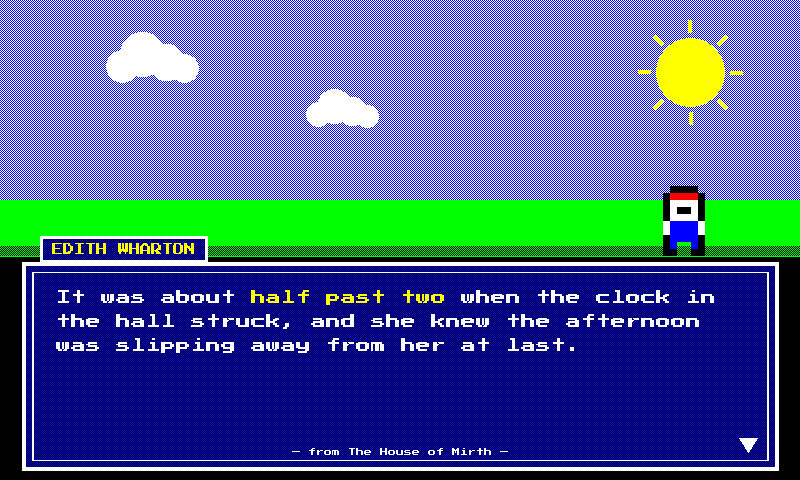
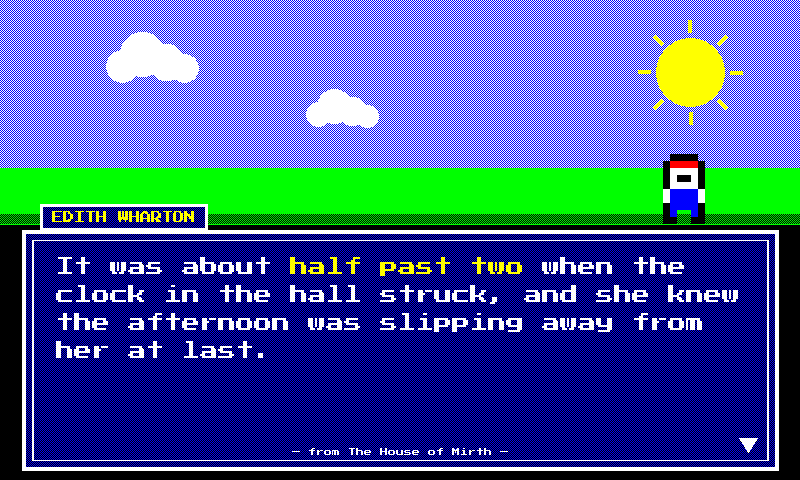
Enlarge questline + chrono dialogue boxes for bigger, more legible text
Both pixel-RPG themes are dialogue-driven, so raise the box top (keeping
the scenery compact above) and bump the font sizes:

- questline: horizon up (sky 200->168, hills 256->224), box top 262->230
  (~50% of canvas); Press Start 2P font_max 15->18, font_min 8->10
- chrono: window top + sky bottom 296->256 (taller FF window); Pixelify
  Sans body font_max 22->27, font_min 12->14, name header 17->19. Mountain
  peaks rewritten as offsets above the horizon so they scale with the new
  sky height (byte-identical at the old 296 anchor)

Dense quotes still shrink to fit via fit_quote. CLAUDE.md + the two
preview thumbnails updated.

https://claude.ai/code/session_015AgeG1R44o6rjtc71p48wz

Changed region(s): [[0.0, 0.3125, 1.0, 0.75], [0.5625, 0.7188, 0.5938, 0.75]]

diff --git a/idle_hours/render_quote.py b/idle_hours/render_quote.py
@@ -14676,11 +14676,12 @@ _QUESTLINE_SPRITE_PALETTE = {
     "Y": SPECTRA6["yellow"],
 }
 
-# Vertical bands of the scene (y, 800×480 canvas). The sky/hills fill the top;
-# the dialogue box owns the bottom ~45%.
-_QUESTLINE_SKY_BOTTOM = 200
-_QUESTLINE_HILL_BOTTOM = 256
-_QUESTLINE_BOX = (22, 262, 778, 470)  # x0, y0, x1, y1
+# Vertical bands of the scene (y, 800×480 canvas). The sky/hills are kept
+# compact up top so the dialogue box can own the taller lower ~50% — more room
+# for a larger, more legible font.
+_QUESTLINE_SKY_BOTTOM = 168
+_QUESTLINE_HILL_BOTTOM = 224
+_QUESTLINE_BOX = (22, 230, 778, 470)  # x0, y0, x1, y1
 
 
 def _questline_paint_sky(image: Image.Image, draw: ImageDraw.ImageDraw) -> None:
@@ -14804,7 +14805,7 @@ def _questline_paint_dialogue(image: Image.Image, draw: ImageDraw.ImageDraw, quo
     matched = quote_row.get("matched_text") or ""
     quote_font, quote_font_bold, wrapped_quote, line_height, _ = fit_quote(
         draw, display_quote, matched, box_w, box_h,
-        font_max=15, font_min=8, line_height_mult=1.6, theme="questline",
+        font_max=18, font_min=10, line_height_mult=1.6, theme="questline",
     )
     body_ascent = _font_ascent(quote_font)
     y = y0
@@ -14918,8 +14919,8 @@ _CHRONO_ART_TONES = {
 _CHRONO_ART_SIZE = (56, 72)  # logical pixels before upscale
 _CHRONO_ART_SCALE = 2        # → 112×144 px on the panel
 
-_CHRONO_SKY_BOTTOM = 296
-_CHRONO_WINDOW = (28, 296, 772, 458)
+_CHRONO_SKY_BOTTOM = 256
+_CHRONO_WINDOW = (28, 256, 772, 458)
 _CHRONO_PORTRAIT = (32, 222, 180, 394)
 
 
@@ -15081,13 +15082,19 @@ def _chrono_paint_sky(image: Image.Image, draw: ImageDraw.ImageDraw) -> None:
         if rng.random() < 0.22:  # a few brighter 2×2 stars
             draw.rectangle((sx, sy, sx + 1, sy + 1), fill=WHITE)
     # Distant mountain ranges (back lighter, front navy) for parallax depth.
+    # Peaks are expressed as offsets above ``bottom`` (the horizon) so the
+    # ranges scale correctly when the sky is shortened to make room for a
+    # taller dialogue window — at bottom=296 these reduce to the original
+    # absolute coordinates.
     draw.polygon(
-        [(0, bottom), (0, 210), (150, 250), (320, 196), (520, 244), (700, 200), (width, 238), (width, bottom)],
+        [(0, bottom), (0, bottom - 86), (150, bottom - 46), (320, bottom - 100),
+         (520, bottom - 52), (700, bottom - 96), (width, bottom - 58), (width, bottom)],
         fill=BLUE,
     )
     _chrono_fill_poly(
         image,
-        [(0, bottom), (0, 262), (180, 224), (360, 270), (560, 226), (760, 268), (width, 240), (width, bottom)],
+        [(0, bottom), (0, bottom - 34), (180, bottom - 72), (360, bottom - 26),
+         (560, bottom - 70), (760, bottom - 28), (width, bottom - 56), (width, bottom)],
         dark=BLUE, light=BLACK, density=0.5,
     )
     # Pale moon with a couple of faint navy craters.
@@ -15165,7 +15172,7 @@ def _chrono_paint_dialogue(image: Image.Image, draw: ImageDraw.ImageDraw, quote_
     # Speaker-name header.
     author = (quote_row.get("author") or "").strip()
     name = (author or "NARRATOR").upper()
-    name_font = load_font(theme_font_candidates("chrono", "quote_bold"), size=17)
+    name_font = load_font(theme_font_candidates("chrono", "quote_bold"), size=19)
     while name and draw.textlength(name, font=name_font) > box_w:
         name = name[:-1]
     nb = draw.textbbox((0, 0), name, font=name_font)
@@ -15176,7 +15183,7 @@ def _chrono_paint_dialogue(image: Image.Image, draw: ImageDraw.ImageDraw, quote_
     matched = quote_row.get("matched_text") or ""
     quote_font, quote_font_bold, wrapped_quote, line_height, _ = fit_quote(
         draw, display_quote, matched, box_w, y1 - body_top,
-        font_max=22, font_min=12, line_height_mult=1.32, theme="chrono",
+        font_max=27, font_min=14, line_height_mult=1.32, theme="chrono",
     )
     body_ascent = _font_ascent(quote_font)
     y = body_top

diff --git a/CLAUDE.md b/CLAUDE.md
@@ -558,7 +558,7 @@ Imports `pick_quote` in-process (`pick_quote_module.select_quote`) and lays out 
   - `kanagawa` (white/black/red, Yuji Boku sumi-brush — Yuji Hamasaki, OFL via Google Fonts — a stylised Japanese seascape inspired by Hokusai's "Thirty-six Views of Mount Fuji" series. An earlier revision attempted a literal Great-Wave silhouette via parametric Gaussian-peak polygons but PIL polygon fills + a 6-colour palette can't carry the ink-brush nuance the print needs; the design pivoted to the canonical seigaiha (青海波 / "blue ocean waves") textile pattern as the centrepiece — overlapping fish-scale half-disks (`draw.pieslice` from 180° to 360°) in indigo with three concentric white arc stripes (radii 23 / 18 / 13) inside each scale, arranged in tight rows with each row offset by half a tile width from the row above so only the upper crescent of each scale shows — the iconic woven-textile rhythm. Tile geometry is held on module-level constants (`_SEIGAIHA_TILE_RADIUS = 28`, `_SEIGAIHA_RING_RADII`) and the helper `_draw_seigaiha_band` fills an arbitrary horizontal band so future themes can reuse the primitive. Composition layers above the seigaiha (deepest → shallowest): a vertically-graduated sky-blue Bayer wash (the first *gradient* Bayer wash in the codebase — threshold tapers linearly from 5/16 at y=0 to 0 at the horizon y≈264, reading as morning haze), five distant ink-stroke birds at module-level deterministic anchors (`_KANAGAWA_BIRD_ANCHORS`, with asymmetric per-bird left/right wing droops so the flock reads as five distinct soaring silhouettes rather than identical V stamps), and a thin sparse-stippled blue horizon line at y≈297 separating sky from seigaiha. The deepest seigaiha row picks up a navy stipple post-pass (B+K 1:1, the documented `bauhaus` matched-phrase recipe) so the bottom of the "ocean" reads as deeper water. A red rounded-rectangle hanko seal (32×38 px at the bottom-right corner, with a stylised `川` "kawa" / "river" kanji painted in 2 px white strokes — leftmost stroke kinked at the top to suggest brush motion) anchors the BR; the seal's base picks up a bbox `(x+y)&1` maroon post-pass (R+K 1:1, the documented recipe `dispatch` and `chanbara` both use) so it reads as the aged oxblood of a real archival ink stamp. The body text + attribution sit inside a cream-tinted rounded paper panel knocked out of the seigaiha (radius 12 via `draw.rounded_rectangle`), painted via the same `clear_rect` dispatch in `render()` that `blueprint` uses for its graph-paper grid knockout. The panel has a 1 px black frame following the rounded corner arc and a 2 px black drop-shadow ledge on the bottom-right edge (a black rounded rect offset 2 px right/down before the cream fill — the cream covers all but the 2 px ledge), reading as a hand-pressed paper card lifted slightly above the seigaiha textile. The cream tint uses 4 off-grid anchor positions per 8×8 tile (at (1,3) + (5,6) + (2,7) + (6,2), ~6% yellow density on white) rather than the regular 4×4 Bayer matrix — the off-grid placement avoids the "lemon grid" lattice effect a Bayer pattern produces at desktop zoom against the saturated seigaiha indigo, while still averaging to warm vellum at panel-viewing distance. Matched time phrase: solid Spectra red — the classic ukiyo-e signature-red register, tied tonally to the hanko seal's red base. Body face is Yuji Boku, the first proper Japanese sumi-brush face in the bundle (single Regular weight; matched-phrase role re-uses Regular and gains differentiation from the red accent alone, same trick comic / dispatch / atomic / marker / saloon / deco / glacier / chalkboard / placard / chanbara use). Sits visually distinct from the rotation's other Japanese-flavoured theme (`chanbara` — dramatic all-caps samurai-cinema brush via Shojumaru): chanbara is samurai *cinema* in a bold display brush with a rising sun, kanagawa is woodblock-print *textile* in a calligraphic body brush with seigaiha as the dominant motif. No outer frame — authentic woodblock prints have no border (same composition discipline as `fillmore`); kanagawa is intentionally absent from `_DEBUG_LABEL_RIGHT_INSET` since the seigaiha sits in the bottom half and no graphic touches the y=14-29 banner band).
   - `cartograph` (cream-washed white / black IM Fell English Italic body / red matched-phrase, hand-drawn antique cartographer's chart — a literary-layout theme with a heavy `draw_cartograph_border` decoration rather than a custom-render frame. White-paper ground warmed by a cream Y+W Bayer Layer-0 wash plus a sparse R+G sepia foxing scatter (the same two-pass aged-paper recipe `newsprint` / `tarot` use, here over cream); two diagonal-corner coastline silhouettes in R+G sepia (a 26-vertex two-octave ragged edge — a slow swell carving broad bays / headlands plus a fast jitter for the fractal nibble of a real engraved shoreline, so the land reads as a coastline with inlets and capes rather than a smooth filled triangle; each landmass also carries interior **topographic form-lines** — real terrain relief traced as marching-squares iso-lines over a synthetic height field (3–4 deterministic Gaussian hills + basins summed across the land's bbox, contoured at six evenly-spaced elevation levels), with each marching-squares cell skipped unless its centre falls inside the land silhouette (`_point_in_polygon`), so the contours stay on the sepia landmass and read as the wavy multi-peak nested loops of a real topographic chart rather than concentric copies of the coastline — painted in black so the red→green sepia post-pass leaves them as crisp engraved relief lines over the land fill), a 32-px R+Y tangerine compass rose at the bottom-left, a small black sea-serpent margin doodle ("here be dragons"), three hand-lettered italic Latin place labels in sepia, and a `clear_rect` knockout of the body region to a clean cream cartouche with a doubled red+black rubricated rule and registration-cross corner accents (the same knockout `kanagawa` / `blueprint` use). The matched phrase picks IM Fell *Regular* (upright Roman) in solid red so differentiation arrives via colour + roman/italic split rather than weight — the canonical "place name upright, body legend italic" cartographic convention. Completes the navigation trio alongside `firmament` (celestial atlas) and `astrarium` (instrument dashboard). Saturation tier `0.5`.)
   - `vitrail` (jewel-glass field / black lead-came / clear white-glass quote cartouche, Gothic stained-glass cathedral window — the sixth theme to bypass the literary layout entirely, dispatching from `render` into its own `render_vitrail_frame`. The "take full advantage of the hardware" theme: a tall lancet window whose black lead-came tracery (`_vitrail_paint_lead_came`) divides the canvas into an irregular hand-leaded mosaic of jewel-toned glass shapes that deliberately exercise the FULL synthesised Spectra-6 palette — the four saturated native inks plus amber/gold (R+Y 5/8:3/8 tangerine), royal purple (R+B 1:1), teal (G+B 5/8:3/8), plum (R+B+K 3-ink), lavender (R+B+W 3-ink), rose/coral (R+W), sky-blue (B+W), olive (Y+G), mint (G+W), navy (B+K) and forest (G+K) — drawn deterministically from the module-level `_VITRAIL_GLASS` spec list. `_vitrail_build_panes` starts from a 6×5 lattice, pins the border vertices to the frame but nudges every interior vertex off-grid by a seeded RNG (`_VITRAIL_SEED` / `_VITRAIL_JITTER`), then splits ≈half the cells (`_VITRAIL_SPLIT_PROB`) along one diagonal into two triangular shards with different tones — so the field reads as varied quadrilaterals and triangles rather than a regular grid. Each shape is filled via `_vitrail_fill_polygon` (a 1-bit polygon mask + the per-pixel `_vitrail_pane_ink`, whose solid / 2-ink / 3-ink branches mirror `_fill_swatch_stipple` / `_fill_swatch_stipple_3way` against absolute x/y so the Bayer phase stays continuous across seams), and `_vitrail_paint_lead_came` then strokes every shape's closed outline as a *beveled raised bar* — three offset passes per seam (white specular highlight offset up-left = the lit top of the rounded lead, black drop shadow offset down-right = the shadow the raised bar casts onto the recessed glass, black core last) modelling light from the upper-left, so the came reads as a physical 3D frame standing proud of the glass rather than flat lines (`_VITRAIL_CAME_BEVEL` sets the offset). The outer stone surround (`_vitrail_paint_outer_frame`) and the central cartouche frame carry the same lit-top-left / shadowed-bottom-right lip so the clear glass reads as recessed behind raised lead. `_vitrail_paint_shimmer` then sweeps a couple of diagonal specular sheen bands across the filled glass (white stippled in at a Bayer density peaking on each band's centreline and tapering to its edges, skipping black/white pixels) so the panes read as a glossy reflective surface catching light rather than flat colour fields — the field-wide pass runs before the came / cartouche so those paint cleanly over it, and a second clipped pass re-applies the *same* streaks (band positions are always derived from the full window field, so they stay aligned) to the rose-window glass after the medallion is painted, so its petals catch the light continuously with the surrounding panes. A pointed lancet arch is carved into the top by filling the two top-corner spandrels black (`_vitrail_paint_arch_spandrels`); a rose-window medallion (`_vitrail_paint_rose_window`) at top-centre divides a stone-ringed glass disc into twelve jewel-tone petal wedges by radial came and carries the Roman-numeral hour (Uncial Antiqua, via the shared `_TAROT_ROMAN_NUMERALS` dict) at its clear-glass hub. The literary quote glows in a clear white-glass central cartouche (`_vitrail_paint_quote_cartouche`) knocked out of the colored field with a solid-white wipe — not a wash — so the dark Liberation Serif body and the **violet-glass matched phrase (R+B 1:1 via `draw_text_dithered`)** stay legible over the busy panes; author · title attribution sits at the cartouche foot in the same Liberation Serif body face (*not* the Uncial Antiqua ornament chain — the uncial's open letterforms shatter into ambiguous strokes at the 15px byline size after `snap_image_to_palette`, the same hairline-at-small-size failure documented for astrarium / tarot, so the attribution is rendered in the legible body serif instead). The digital HH:MM is never surfaced as plain digits — the matched phrase and the rose-window numeral carry the time. Fully deterministic (no RNG) so re-renders of a given time are byte-identical. The palette in `THEMES` is a plain white/black ground with a blue (violet-glass) accent, consumed only by the goodnight / source-card fall-through paths; the frame itself hardcodes Spectra-6 inks. Saturation tier `0.7` (the colored glass dominates the canvas; the white cartouche has no chroma to scale).)
-  - `questline` (black night-sky ground / white body / yellow matched-phrase, Press Start 2P pixel face — an 8/16-bit JRPG dialogue scene, the seventh theme to bypass the literary layout entirely, dispatching from `render` into its own `render_questline_frame`. The whole composition is built from chunky pixels: a sky-blue (B+W checkerboard) sky band over a solid-green hill band with a forest-green (G+K) lower lip, a yellow eight-ray sun and two white pixel clouds in the top margin (`_questline_paint_sky`), and a small caped hero sprite — an 8×10 pixmap (`_QUESTLINE_HERO`) scaled ×7 with a red cap / white face / blue tunic / black boots, standing on the hill line at the right (`_questline_paint_sprite`). The quote is presented as **on-screen NPC dialogue** inside a bordered box owning the bottom ~45% of the canvas (`_questline_paint_box`): a navy (blue+black checkerboard) fill with a white double pixel frame (4-px outer rule + an inset inner rule, square corners — the pixel-authentic dialogue-box look, no smooth arcs). The **author becomes the speaker** on a small framed nameplate tab straddling the box's top-left edge (`_questline_paint_nameplate`, uppercased, truncated past 22 chars, yellow-on-navy; falls back to `NARRATOR` when the row has no author so a bare-text quote still gets a speaker). The body text is **left-aligned** (reads as dialogue, not centred prose) via the shared `fit_quote` / `wrap_styled_text` pipeline at `font_max=15` / `font_min=8` / `line_height_mult=1.6` — Press Start 2P reports descent 0, so the generous multiplier supplies the inter-line gap the bitmap cell omits — with the matched time-phrase painted in the `accent` yellow (the classic RPG "highlighted keyword" tint; solid, no stipple reroute needed). A static white ▼ "press to continue" arrow sits in the box's bottom-right (`_questline_paint_arrow`, static — eInk), and a `— from {Title} —` footer runs along the box's bottom inner margin (`_questline_paint_footer`, centred, size 8, truncated to clear the arrow; skipped when the row has no title). Like `marquee`, the digital HH:MM is **never surfaced** — the matched phrase in the dialogue carries the time, which is the whole point of a quote-based fuzzy clock; `time_str` is `del`-asserted at the top of `render_questline_frame` and retained only for dispatch-signature uniformity. Press Start 2P (CodeMan38, OFL — the only pixel/bitmap face in the bundle) carries the body, the matched-phrase accent, and the chrome alike; single weight, so the matched-phrase role reuses Regular and earns its differentiation from the yellow accent alone (comic / dispatch / atomic discipline). Saturation tier `0.7` (dark / saturated ground). Since it still displays a quote it stays in the button-B / auto / random rotation — only `diags` (which surfaces swatches instead of a quote) is in `RANDOM_EXCLUDED_THEMES`. No `_DEBUG_LABEL_RIGHT_INSET` entry — the custom frame paints its own composition and ignores `mode`, like the other frame themes.)
+  - `questline` (black night-sky ground / white body / yellow matched-phrase, Press Start 2P pixel face — an 8/16-bit JRPG dialogue scene, the seventh theme to bypass the literary layout entirely, dispatching from `render` into its own `render_questline_frame`. The whole composition is built from chunky pixels: a sky-blue (B+W checkerboard) sky band over a solid-green hill band with a forest-green (G+K) lower lip, a yellow eight-ray sun and two white pixel clouds in the top margin (`_questline_paint_sky`), and a small caped hero sprite — an 8×10 pixmap (`_QUESTLINE_HERO`) scaled ×7 with a red cap / white face / blue tunic / black boots, standing on the hill line at the right (`_questline_paint_sprite`). The quote is presented as **on-screen NPC dialogue** inside a bordered box owning the bottom ~50% of the canvas (`_questline_paint_box`): a navy (blue+black checkerboard) fill with a white double pixel frame (4-px outer rule + an inset inner rule, square corners — the pixel-authentic dialogue-box look, no smooth arcs). The **author becomes the speaker** on a small framed nameplate tab straddling the box's top-left edge (`_questline_paint_nameplate`, uppercased, truncated past 22 chars, yellow-on-navy; falls back to `NARRATOR` when the row has no author so a bare-text quote still gets a speaker). The body text is **left-aligned** (reads as dialogue, not centred prose) via the shared `fit_quote` / `wrap_styled_text` pipeline at `font_max=18` / `font_min=10` / `line_height_mult=1.6` — Press Start 2P reports descent 0, so the generous multiplier supplies the inter-line gap the bitmap cell omits — with the matched time-phrase painted in the `accent` yellow (the classic RPG "highlighted keyword" tint; solid, no stipple reroute needed). A static white ▼ "press to continue" arrow sits in the box's bottom-right (`_questline_paint_arrow`, static — eInk), and a `— from {Title} —` footer runs along the box's bottom inner margin (`_questline_paint_footer`, centred, size 8, truncated to clear the arrow; skipped when the row has no title). Like `marquee`, the digital HH:MM is **never surfaced** — the matched phrase in the dialogue carries the time, which is the whole point of a quote-based fuzzy clock; `time_str` is `del`-asserted at the top of `render_questline_frame` and retained only for dispatch-signature uniformity. Press Start 2P (CodeMan38, OFL — the only pixel/bitmap face in the bundle) carries the body, the matched-phrase accent, and the chrome alike; single weight, so the matched-phrase role reuses Regular and earns its differentiation from the yellow accent alone (comic / dispatch / atomic discipline). Saturation tier `0.7` (dark / saturated ground). Since it still displays a quote it stays in the button-B / auto / random rotation — only `diags` (which surfaces swatches instead of a quote) is in `RANDOM_EXCLUDED_THEMES`. No `_DEBUG_LABEL_RIGHT_INSET` entry — the custom frame paints its own composition and ignores `mode`, like the other frame themes.)
   - `chrono` (twilight-blue gradient sky / white body / yellow matched-phrase, Pixelify Sans — a **16-bit SNES JRPG** dialogue scene (Final Fantasy VI / Chrono Trigger era), the eighth theme to bypass the literary layout entirely, dispatching from `render` into its own `render_chrono_frame`. The deliberate companion / step-up to the 8-bit `questline`: where questline is flat NES bands + chunky monospace Press Start 2P, chrono shows the three things 8-bit hardware couldn't — **gradient-shaded backgrounds**, a **translucent-blue gradient dialogue window with a rounded beveled border**, and a **character portrait sub-window** — in the finer, multi-weight Pixelify Sans. `_chrono_paint_sky` paints an atmospheric twilight: a per-row Bayer **density-ramp gradient** (deep navy B+K at the zenith fading to pure blue at mid-sky, then a rising white-dither haze toward the horizon — the continuous tone flat 8-bit bands can't produce), ~70 deterministic white stars (`_CHRONO_STAR_SEED`, cleared from the moon's disc), a pale white moon with faint sky-blue (B+W) craters, and a **two-range mountain silhouette** (a solid-blue back range + a navy B+K-dithered front range via `_chrono_fill_poly`) for parallax depth. The quote sits in the iconic **FF blue window** (`_chrono_window_fill` paints a navy→blue→faint-sky-blue vertical gradient onto a private tile and pastes it through a rounded-rectangle mask so the corners read soft; `_chrono_window_border` strokes a white rounded double frame with small yellow corner-accent ticks). A **portrait sub-window** (`_chrono_paint_portrait`, same window recipe at smaller scale) carries an ornate, *shaded* **hourglass** — the "portrait" a cutscene frames beside the dialogue, and thematically exact for `chrono` (= time). A hand-built frontal face reads as crude on a 6-ink panel; a geometric object renders cleanly and lets the tonal-dither trick do real work. The hourglass uses **multi-tone shading ramps synthesised from the six inks** (`_CHRONO_ART_TONES`: cream→gold→bronze brass via Y+W / Y / R+Y, amber sand at varying R+Y density, sky-tint glass via B+W) so the brass, glass and sand read as rounded, lit volumes rather than flat shapes. `_chrono_build_hourglass` sculpts it with **vector shapes at a low logical resolution** (a brass frame — capped top/bottom with finials + two shaded side posts — two sky-tinted glass bulbs with specular streaks, and amber sand draining from a dished surface in the upper bulb through the neck as a thin stream onto a mound in the lower bulb; light from the upper-left) drawn into a tone-indexed `L` image; `_chrono_paint_hourglass` upscales it (NEAREST) and dither-maps each tone index to its Spectra-6 colour at absolute panel coordinates so the synthesised tones share a continuous Bayer phase with the rest of the frame. This shape-plus-dither approach is what gets the rounded SNES look out of a 6-ink panel — a flat hand-pixelled sprite cannot. (An earlier revision rendered a shaded anime face here; the geometric hourglass both reads cleaner on the panel and ties the portrait to the theme.) `_chrono_paint_dialogue` prints the **author as a white Pixelify Sans Bold speaker-name header**, then the quote left-aligned below with the matched time-phrase in **yellow Pixelify Sans Bold** — a real weight step on top of the accent colour, the payoff of the variable font (questline's single-weight Press Start 2P differentiates on colour alone). A yellow ▼ continue arrow sits bottom-right; a white `— from {Title} —` footer runs along the window foot (a sky-blue B+W dither was tried but averaged too close to the window fill to stay legible at the footer point size). Like `questline` / `marquee`, the digital HH:MM is **never surfaced** — the matched phrase carries the time; `time_str` is `del`-asserted at the top of `render_chrono_frame`. Saturation tier `0.7` (gradient-blue ground). Stays in the button-B / auto / random rotation. No `_DEBUG_LABEL_RIGHT_INSET` entry — custom frame, ignores `mode`.)
 - **Fonts.** Typography is per-theme, and each non-default theme deliberately picks a face from a different type *family* so the rendered frame's silhouette changes with the theme — not just its palette. `THEME_FONTS` maps each `THEMES` entry to a dict with `quote_regular` / `quote_bold` / `ornament` candidate chains, each a list of path strings OR `(path, variation_name)` tuples. The tuple form targets variable fonts — `load_font` calls `set_variation_by_name(name)` after the truetype load, so e.g. the scholar theme picks Regular/Bold instances from a single variable `Bitter-Variable.ttf` (whose default axis instance is Thin — a missing variation call would render near-invisible hairlines on the panel). Every per-theme chain ends at the Playfair / DejaVu defaults so a missing-font install degrades to the default face instead of dropping to the PIL bitmap fallback. System metadata / debug strips always use DejaVu / Noto / Liberation Sans regardless of theme. Install `apt install fonts-noto-core fonts-dejavu-core` if the bundled fonts aren't found. When every TTF candidate is missing, `load_font` logs a one-shot warning to stderr before returning `ImageFont.load_default()` so a misconfigured install surfaces instead of silently producing an 8-pixel bitmap render.
   - `default` and `dark` share the Playfair Display chain (transitional / high-contrast serif; repo-local `idle_hours/fonts/`, then common Pi/Linux paths, with DejaVu Serif / Liberation Serif / Noto Serif as system fallbacks).
